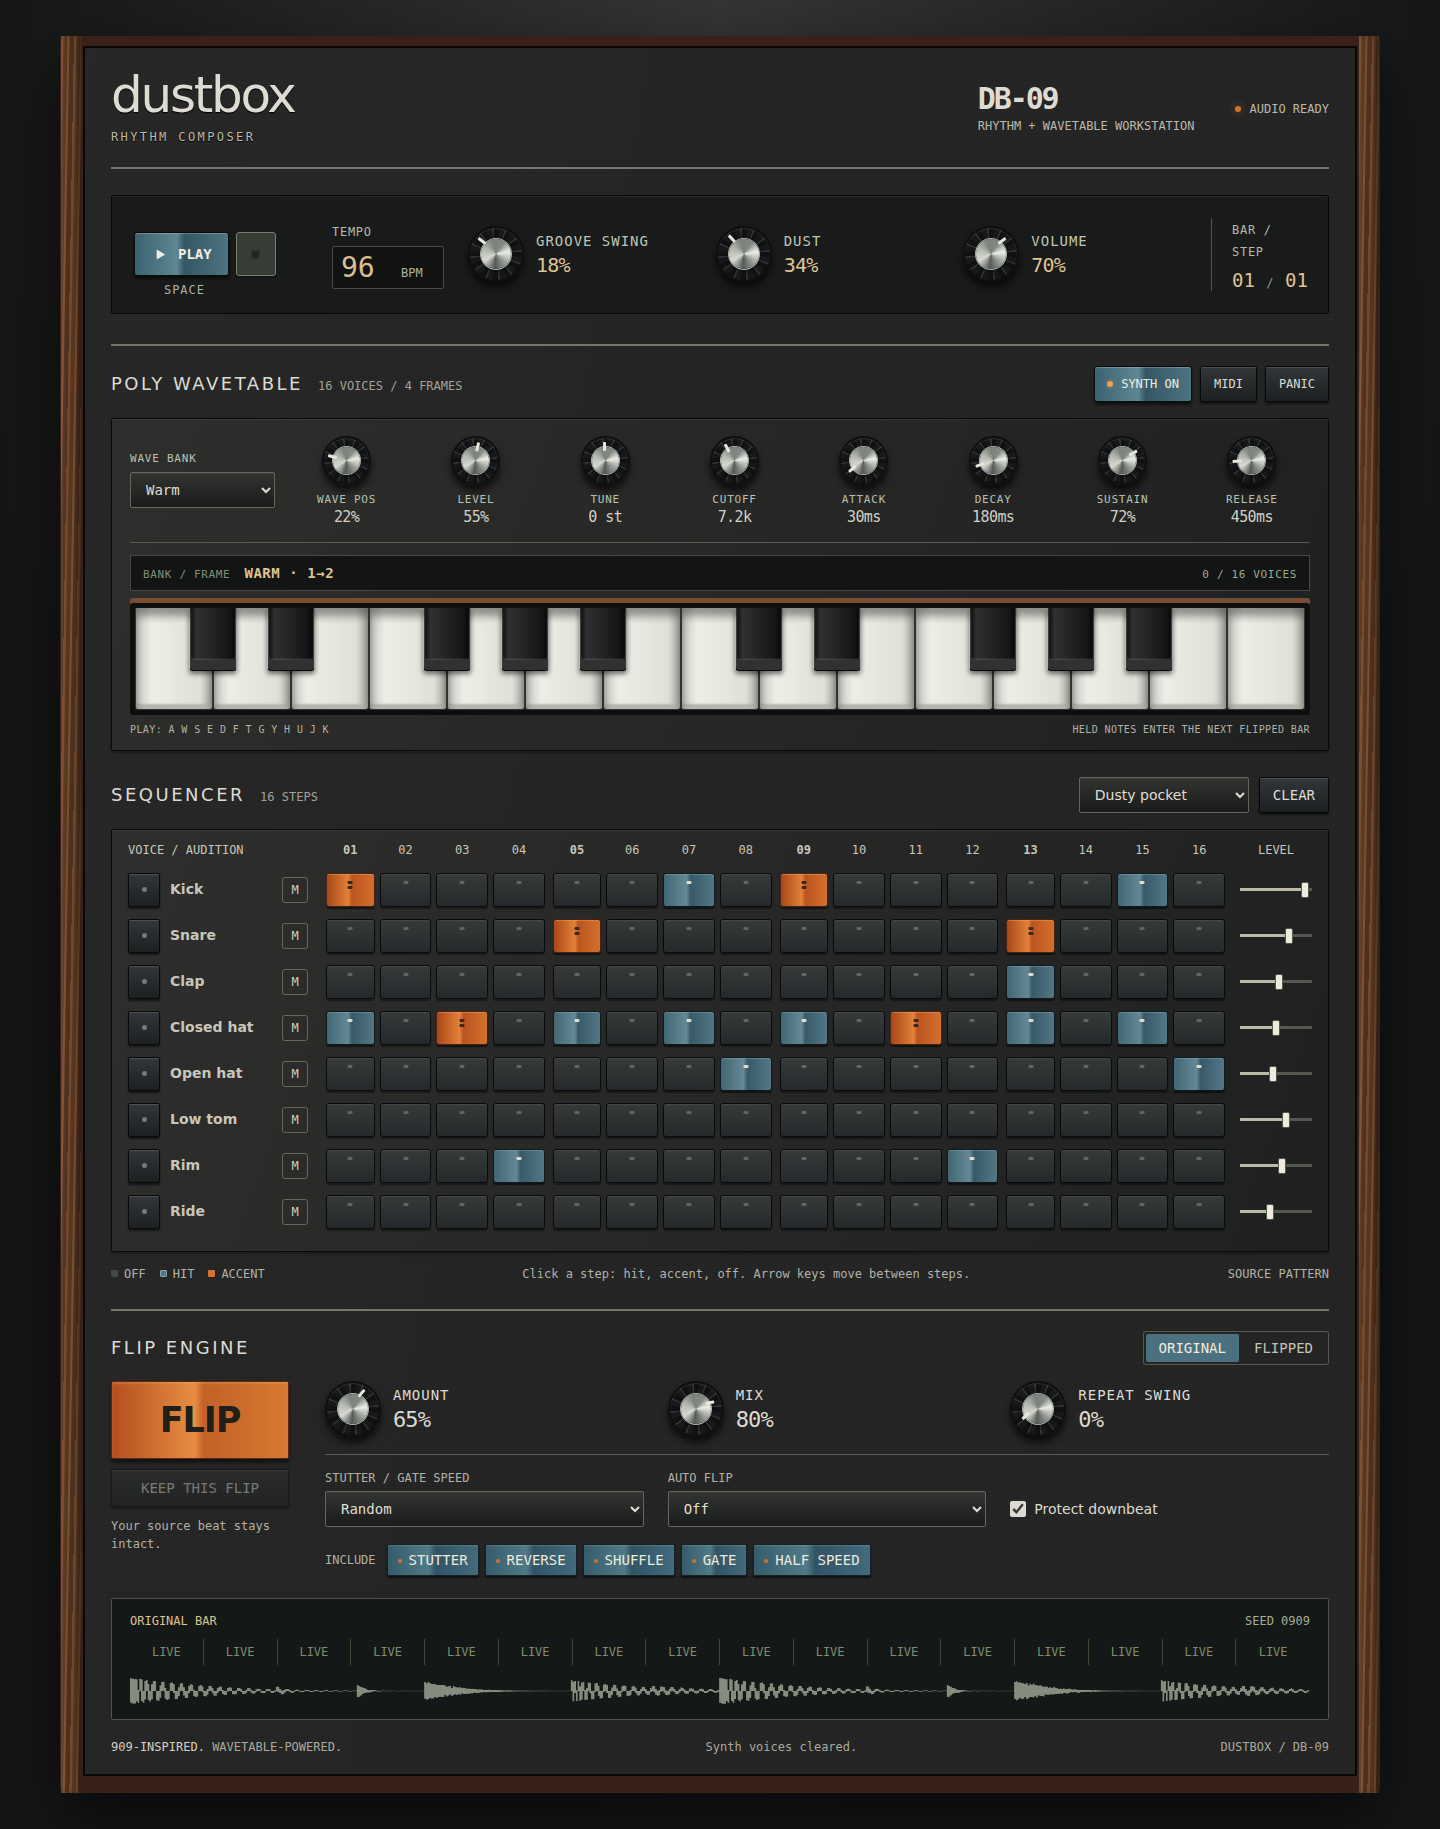
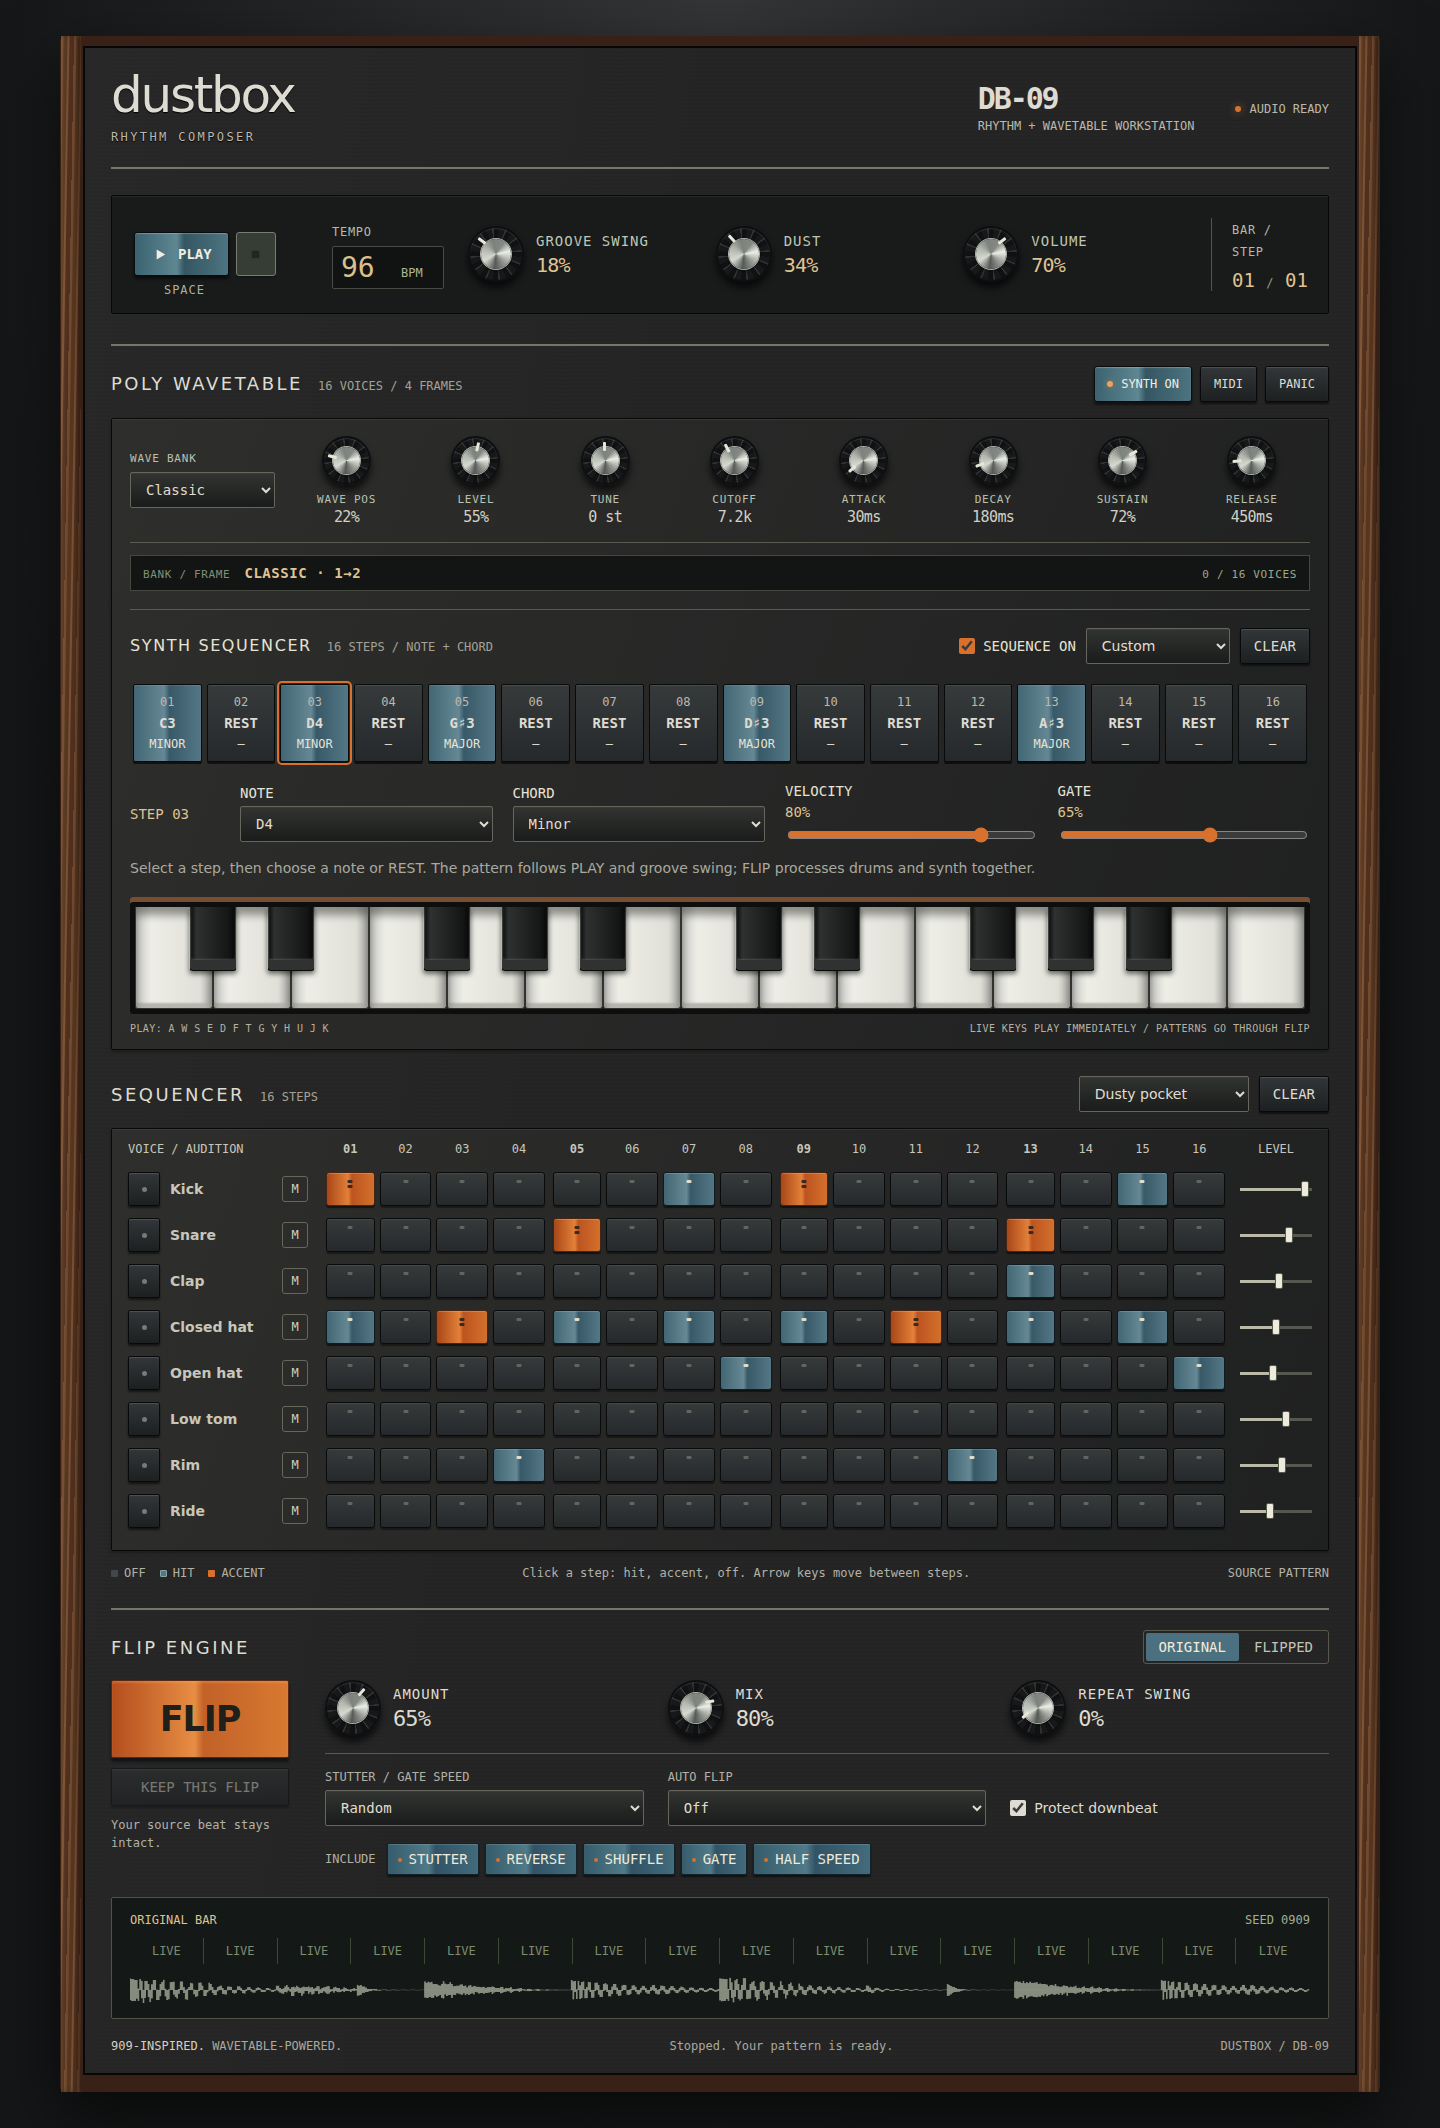
Refresh web synth sequencer screenshots [skip ci]

diff --git a/docs/screenshots/README.md b/docs/screenshots/README.md
@@ -1,14 +1,14 @@
 # Dustbox screenshots
 
-## Native workstation — walnut cabinet redesign
+## Native workstation — version 0.4.0 walnut cabinet redesign
 
 Rendered by the macOS processor test runner from the redesigned editor. The universal Audio Unit and standalone build, processor tests, and Audio Unit validation passed in [the build run](https://github.com/robathanjames/beat-flip-au/actions/runs/37727476224).
 
 ![Dustbox native walnut cabinet with drums, FLIP engine and poly wavetable synthesizer](dustbox-native-cabinet.png)
 
-## Web workstation — walnut cabinet redesign
+## Web workstation — version 0.5.0 synth sequencing
 
-Captured from the completed browser build at 1440 px and 430 px widths. Both layouts include the new synth, sequencer, and FLIP engine.
+Captured from the tested browser build at 1440 px and 430 px widths. Both layouts include independent drum/synth sequencers, chord/velocity/gate editing, immediately playable live keys and the FLIP engine. On narrow screens, each step row scrolls inside its panel. The actual-browser audio/layout regression checks passed for both sizes; these are real rendered interfaces, not mockups.
 
 ![Dustbox web desktop](dustbox-web-desktop.png)
 
